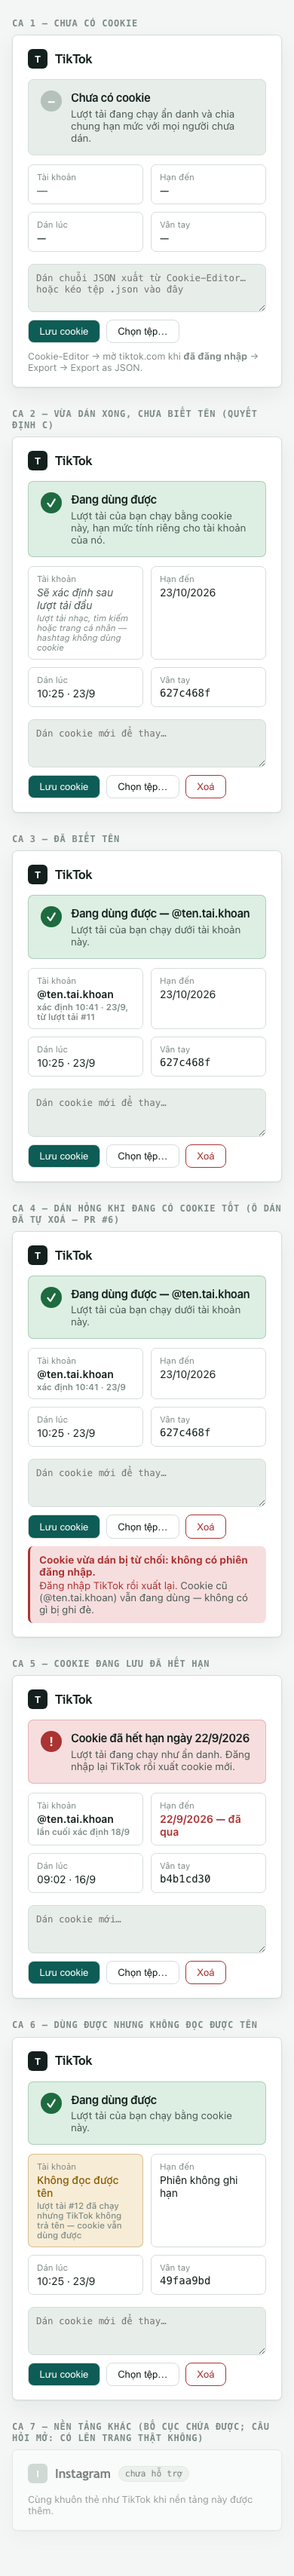
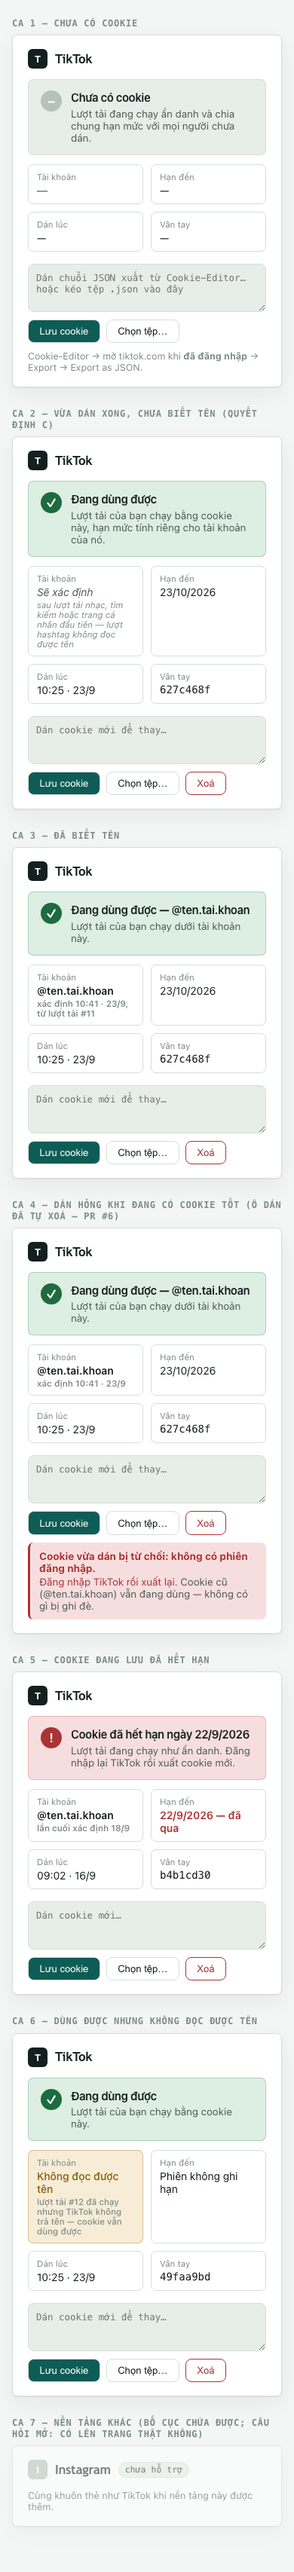
docs(cookie-ui): record the 10:54 decisions and add the viewer-field probe

diff --git a/plans/260923-1023-cookie-ui/mock-cookie-ui.html b/plans/260923-1023-cookie-ui/mock-cookie-ui.html
@@ -106,8 +106,8 @@
           <p>Lượt tải của bạn chạy bằng cookie này, hạn mức tính riêng cho tài khoản của nó.</p></div>
       </div>
       <dl class="o4">
-        <div class="o o-cho"><dt>Tài khoản</dt><dd>Sẽ xác định sau lượt tải đầu
-          <small>câu chữ chờ chốt điểm đọc tên (brainstorm §3)</small></dd></div>
+        <div class="o o-cho"><dt>Tài khoản</dt><dd>Sẽ xác định
+          <small>sau lượt tải nhạc, tìm kiếm hoặc trang cá nhân đầu tiên — lượt hashtag không đọc được tên</small></dd></div>
         <div class="o"><dt>Hạn đến</dt><dd>23/10/2026</dd></div>
         <div class="o"><dt>Dán lúc</dt><dd>10:25 · 23/9</dd></div>
         <div class="o"><dt>Vân tay</dt><dd class="mono">627c468f</dd></div>

diff --git a/plans/260923-1023-cookie-ui/do-truong-nguoi-xem.py b/plans/260923-1023-cookie-ui/do-truong-nguoi-xem.py
@@ -1,0 +1,101 @@
+"""Đo (i′): HTML trang TikTok có nhúng danh tính NGƯỜI XEM không, và ở trường nào.
+
+Chạy TRÊN MINI, bằng venv của repo, với jar của user tại chỗ (jar không rời mini):
+    ./.venv/bin/python do-truong-nguoi-xem.py <đường jar> <URL trang TikTok>
+Thử cục bộ, không chạm TikTok (trang giả):
+    ./.venv/bin/python do-truong-nguoi-xem.py --gia <tệp jar giả> <file:///…html>
+
+Hai lượt `goto` cùng một URL: CÓ cookie và ẨN DANH (control). In RA CHỈ:
+- danh sách khoá dưới `__DEFAULT_SCOPE__` của mỗi lượt;
+- mọi ĐƯỜNG KHOÁ dẫn tới trường tên-người-dùng (`uniqueId`, `nickname`, `uid`…),
+  chỉ in đường, không in giá trị;
+- đường nào CHỈ có ở lượt có cookie ⇒ ứng viên trường người xem.
+Không một giá trị nào của trang hay của jar được in ra.
+
+Đi CÙNG ĐƯỜNG với job thật: `_open_context` + `_load_cookies` của scraper, cùng
+`wait_until="domcontentloaded"` như `scraper.py:436`.
+"""
+
+from __future__ import annotations
+
+import json
+import sys
+from pathlib import Path
+
+REPO = Path(__file__).resolve().parents[2]
+sys.path.insert(0, str(REPO / "src"))
+
+from playwright.sync_api import sync_playwright  # noqa: E402
+
+from tiktok_music_downloader.scraper import (  # noqa: E402
+    _load_cookies, _open_context)
+from tiktok_music_downloader.utils import random_user_agent  # noqa: E402
+
+# Tên trường thường mang danh tính người dùng. So KHÔNG phân biệt hoa thường.
+TEN_DANH_TINH = {"uniqueid", "nickname", "uid", "userid", "secuid", "user_id", "username"}
+
+LAY_KHOI = """() => {
+  const el = document.getElementById("__UNIVERSAL_DATA_FOR_REHYDRATION__");
+  return el ? el.textContent : null;
+}"""
+
+
+def duong_danh_tinh(obj, duong="", ra=None) -> set[str]:
+    """Mọi đường khoá tới một trường danh tính CÓ GIÁ TRỊ KHÁC RỖNG. Chỉ đường."""
+    ra = set() if ra is None else ra
+    if isinstance(obj, dict):
+        for k, v in obj.items():
+            p = f"{duong}.{k}" if duong else str(k)
+            if str(k).lower() in TEN_DANH_TINH and v not in (None, "", 0, "0"):
+                ra.add(p)
+            duong_danh_tinh(v, p, ra)
+    elif isinstance(obj, list):
+        for v in obj[:3]:  # gộp chỉ số: "[]" — đủ để biết hình dạng, không nổ số đường
+            duong_danh_tinh(v, f"{duong}[]", ra)
+    return ra
+
+
+def mot_luot(pw, url: str, jar: Path | None) -> dict:
+    browser, ctx = _open_context(pw, headless=True, proxy=None, profile_dir=None,
+                                 user_agent=random_user_agent())
+    try:
+        if jar is not None:
+            ctx.add_cookies(_load_cookies(jar))
+        page = ctx.new_page()
+        page.goto(url, wait_until="domcontentloaded", timeout=30_000)
+        tho = page.evaluate(LAY_KHOI)
+        if tho is None:
+            return {"co_khoi": False}
+        scope = (json.loads(tho) or {}).get("__DEFAULT_SCOPE__") or {}
+        return {"co_khoi": True, "khoa_scope": sorted(scope),
+                "duong_danh_tinh": sorted(duong_danh_tinh(scope))}
+    finally:
+        ctx.close()
+        if browser is not None:
+            browser.close()
+
+
+def main() -> None:
+    args = sys.argv[1:]
+    gia = args[:1] == ["--gia"]
+    if gia:
+        args = args[1:]
+    if len(args) != 2:
+        sys.exit("dùng: do-truong-nguoi-xem.py [--gia] <jar> <url>")
+    jar, url = Path(args[0]), args[1]
+    if not gia and not url.startswith("https://www.tiktok.com/"):
+        sys.exit("chỉ đo trang https://www.tiktok.com/… (thêm --gia để thử trang giả)")
+    with sync_playwright() as pw:
+        co = mot_luot(pw, url, jar)
+        an = mot_luot(pw, url, None)
+    print("co_cookie :", json.dumps(co, ensure_ascii=False))
+    print("an_danh   :", json.dumps(an, ensure_ascii=False))
+    if co.get("co_khoi") and an.get("co_khoi"):
+        chi_co = sorted(set(co["duong_danh_tinh"]) - set(an["duong_danh_tinh"]))
+        print("CHI_O_LUOT_CO_COOKIE:", json.dumps(chi_co, ensure_ascii=False))
+    else:
+        print("CHUA KET LUAN: một lượt không có khối __UNIVERSAL_DATA_FOR_REHYDRATION__")
+
+
+if __name__ == "__main__":
+    main()

diff --git a/plans/260923-1023-cookie-ui/brainstorm.md b/plans/260923-1023-cookie-ui/brainstorm.md
@@ -9,6 +9,11 @@ quyết định 21/09 11:31 (`plans/260921-1112-videodl-3-van-de/brainstorm.md:2
 Lý do đổi: (1) đo 23/09 — cookie **có** mang offline một định danh số 19 chữ số (`multi_sids`) — điều 21/09 không ai biết.
 ⚠ 2 jar đo được là của **2 người dán** và ra 2 số khác nhau: CHƯA phân định *"2 tài khoản"* với *"số đổi theo phiên"*; (2) C **không** thêm request TikTok nào — đọc kè trang mà job vốn đã mở.
 
+**USER CHỐT 23/09 10:54** (AskUserQuestion, pane e45af0e2/ttys005, qua điều phối R): Q1 **chấp nhận giới hạn hashtag**, KHÔNG móc
+yt-dlp · Q2 **chấp nhận hiện tên** trên máy dùng chung · Q3 cho **cả hai** phép đo bằng tài khoản user. Câu UI Q1 user duyệt mang
+chữ sai *"hashtag không dùng cookie"* (chép từ mock trước V115); R sửa thành câu dưới trong phạm vi đã gật, đã báo user:
+*"sẽ xác định sau lượt tải nhạc, tìm kiếm hoặc trang cá nhân đầu tiên — lượt hashtag không đọc được tên"*.
+
 C = đọc `@username` từ HTML trang TikTok **trong lượt tải có cookie**, 0 request thêm, không trừ trần.
 Hệ quả phải hiện trên UI: **lúc dán chưa biết tên** ⇒ ô tài khoản ghi *"sẽ xác định sau lượt tải đầu"*, không trống, không đoán.
 
